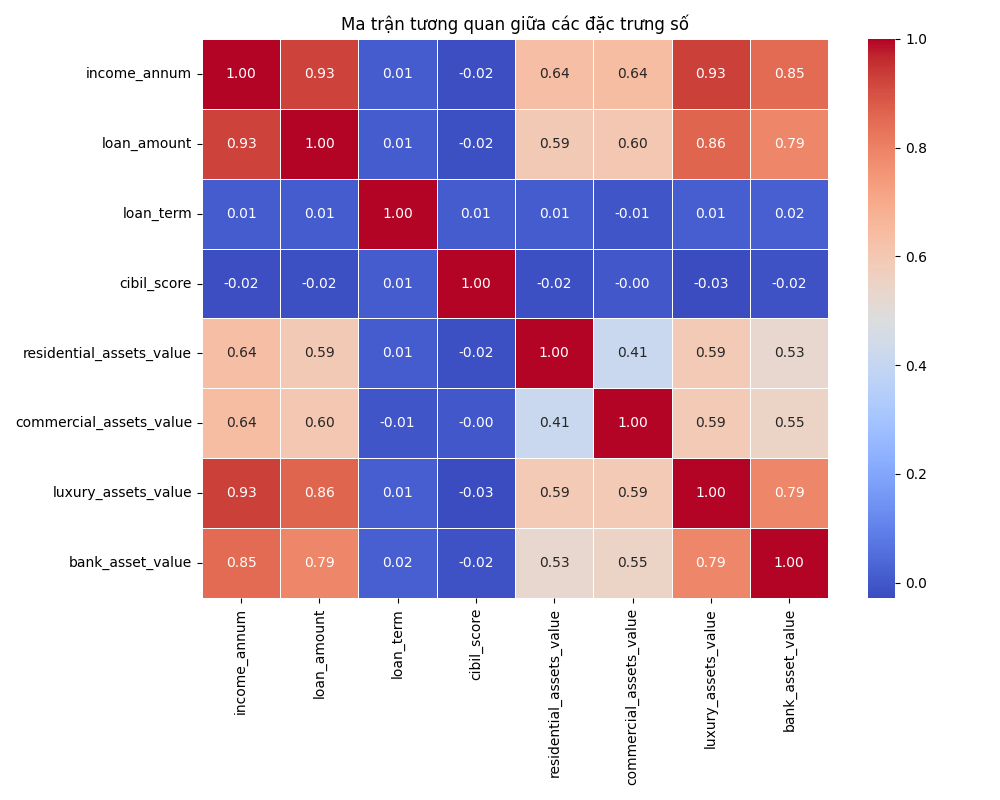
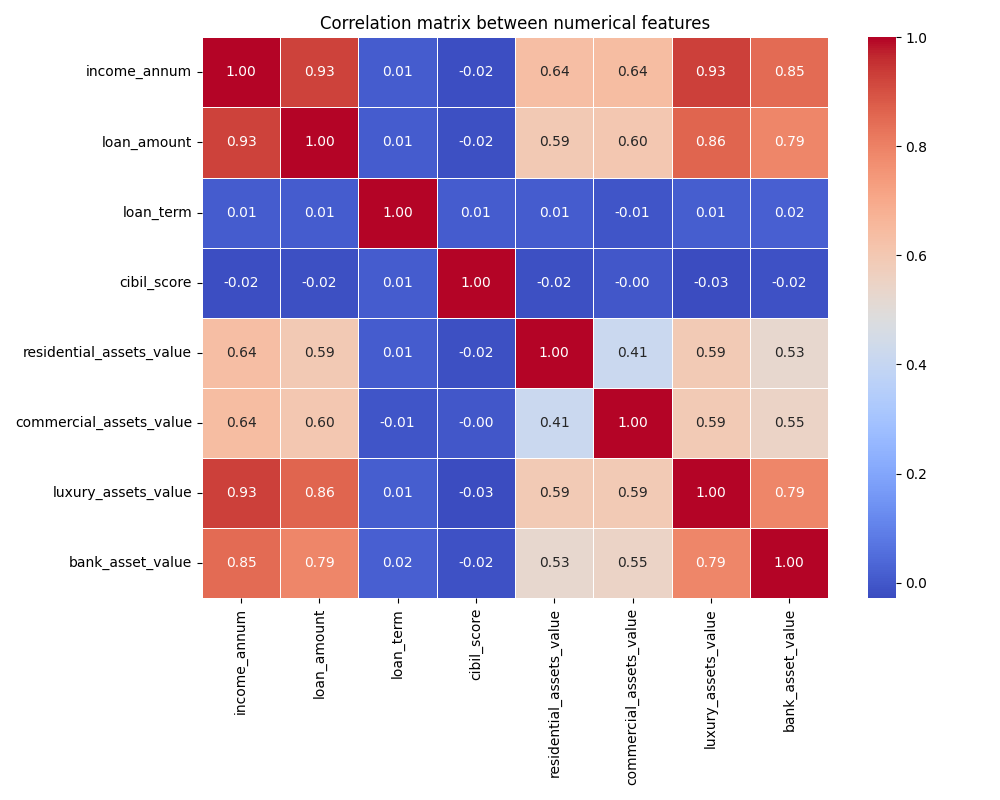
fix

diff --git a/model_utils.py b/model_utils.py
@@ -75,9 +75,9 @@ class ModelUtils:
         sns.heatmap(cm, annot=True, fmt="d", cmap='Blues',
                     xticklabels=self.class_names,
                     yticklabels=self.class_names)
-        plt.xlabel('Giá trị Dự đoán')
-        plt.ylabel('Giá trị Thực tế')
-        plt.title('Ma trận nhầm lẫn')
+        plt.xlabel('Predict value')
+        plt.ylabel('Actual value')
+        plt.title('Confusion matrix')
 
         self.plots['confusion_matrix'] = plt.gcf()
         plt.close()
@@ -98,9 +98,9 @@ class ModelUtils:
             plt.plot([0, 1], [0, 1], color='navy', lw=2, linestyle='--')
             plt.xlim([0.0, 1.0])
             plt.ylim([0.0, 1.05])
-            plt.xlabel('Tỉ lệ Dương tính Giả (FPR)')
-            plt.ylabel('Tỉ lệ Dương tính Thật (TPR)')
-            plt.title('Đường cong ROC')
+            plt.xlabel('False Positive Rate (FPR)')
+            plt.ylabel('True Positive Rate (TPR)')
+            plt.title('ROC curve')
             plt.legend(loc="lower right")
 
             self.plots['roc_curve'] = plt.gcf()
@@ -123,7 +123,7 @@ class ModelUtils:
             plt.ylim([0.0, 1.05])
             plt.xlabel('Recall')
             plt.ylabel('Precision')
-            plt.title('Đường cong Precision-Recall')
+            plt.title('Precision-Recall curve')
             plt.legend(loc="lower left")
 
             self.plots['precision_recall_curve'] = plt.gcf()
@@ -138,7 +138,7 @@ class ModelUtils:
         indices = np.argsort(importances)[::-1]
 
         plt.figure(figsize=(10, 8))
-        plt.title('Tầm quan trọng của các đặc trưng')
+        plt.title('The importance of features')
         plt.bar(range(len(importances)), importances[indices], align='center')
         plt.xticks(range(len(importances)), [feature_names[i] for i in indices], rotation=90)
         plt.tight_layout()
@@ -162,17 +162,17 @@ class ModelUtils:
         test_scores_std = np.std(test_scores, axis=1)
 
         plt.figure(figsize=(10, 6))
-        plt.title('Đường cong học tập')
-        plt.xlabel('Số lượng mẫu huấn luyện')
-        plt.ylabel('Điểm số')
+        plt.title('Learning curve')
+        plt.xlabel('Number of training samples')
+        plt.ylabel('Score')
         plt.grid()
 
         plt.fill_between(train_sizes, train_scores_mean - train_scores_std,
                          train_scores_mean + train_scores_std, alpha=0.1, color="r")
         plt.fill_between(train_sizes, test_scores_mean - test_scores_std,
                          test_scores_mean + test_scores_std, alpha=0.1, color="g")
-        plt.plot(train_sizes, train_scores_mean, 'o-', color="r", label="Điểm huấn luyện")
-        plt.plot(train_sizes, test_scores_mean, 'o-', color="g", label="Điểm kiểm định chéo")
+        plt.plot(train_sizes, train_scores_mean, 'o-', color="r", label="Training score ")
+        plt.plot(train_sizes, test_scores_mean, 'o-', color="g", label="cross validation score")
         plt.legend(loc="best")
 
         self.plots['learning_curve'] = plt.gcf()

diff --git a/data_utils.py b/data_utils.py
@@ -1,6 +1,4 @@
 import os
-import pandas as pd
-import numpy as np
 import matplotlib.pyplot as plt
 import seaborn as sns
 import re
@@ -63,7 +61,7 @@ class DataUtils:
         for i, feature in enumerate(self.numerical_features[:6]):  # Chỉ hiển thị tối đa 6 đặc trưng
             plt.subplot(2, 3, i + 1)
             sns.histplot(self.raw_data[feature], kde=True)
-            plt.title(f'Phân bố của {feature}')
+            plt.title(f'Distribution of {feature}')
             plt.tight_layout()
 
         self.plots['distributions'] = plt.gcf()
@@ -75,7 +73,7 @@ class DataUtils:
 
         plt.figure(figsize=(10, 8))
         sns.heatmap(corr_matrix, annot=True, cmap='coolwarm', fmt='.2f', linewidths=0.5)
-        plt.title('Ma trận tương quan giữa các đặc trưng số')
+        plt.title('Correlation matrix between numerical features')
         plt.tight_layout()
 
         self.plots['correlation'] = plt.gcf()
@@ -86,7 +84,7 @@ class DataUtils:
         # Biểu đồ đếm cho biến mục tiêu
         plt.figure(figsize=(8, 6))
         sns.countplot(x=self.target_column, data=self.raw_data)
-        plt.title(f'Phân bố biến mục tiêu - {self.target_column}')
+        plt.title(f'Target variable distribution - {self.target_column}')
         plt.tight_layout()
         self.plots['target_distribution'] = plt.gcf()
         plt.close()
@@ -169,6 +167,7 @@ class DataUtils:
         # 3. REPAYMENT_CAPACITY_INDEX
         df['repayment_capacity'] = (df['income_annum'] * 0.5 + df['total_assets'] * 0.3) / \
                                    (df['loan_amount'] / df['loan_term'] + 1e-6)
+        # cộng 1^-6 vào mẫu số để tránh chia cho 0 nếu mẫu số = 0 (vd 50/0 = error)
 
         # 4. LIQUID_ASSETS_RATIO
         df['liquid_ratio'] = (df['bank_asset_value'] + df['commercial_assets_value']) / \
@@ -218,7 +217,7 @@ class DataUtils:
         return X, y, selected_features
 
     def split_data(self, X, y, test_size=0.2, random_state=42):
-        """Chia dữ liệu thành tập huấn luyện và kiểm tra"""
+        """Chia dữ liệu thành tập huấn luyện và kiểm tra (0.2 = 20%)"""
         X_train, X_test, y_train, y_test = train_test_split(
             X, y, test_size=test_size, random_state=random_state, stratify=y
         )

diff --git a/config.py b/config.py
@@ -6,13 +6,13 @@ class Config:
     # Thư mục gốc chứa dự án
     ROOT_DIR = os.path.dirname(os.path.abspath(__file__))
 
-    # Đường dẫn đến file dữ liệu
+    # Path to dataset
     DATA_FILE_PATH = os.path.join(ROOT_DIR, "loan_approval_dataset.csv")
 
-    # Thư mục lưu trữ kết quả đầu ra (biểu đồ, báo cáo, v.v.)
+    # folder with output results
     OUTPUT_DIR = os.path.join(ROOT_DIR, "results")
 
-    # Cấu hình mô hình
+    # Config model
     MODEL_CONFIG = {
         "random_forest": {
             "n_estimators": 100,
@@ -25,13 +25,13 @@ class Config:
         # Có thể thêm cấu hình cho các mô hình khác ở đây
     }
 
-    # Cấu hình cho việc chia dữ liệu
+    # config for spliting data
     TRAIN_TEST_SPLIT = {
         "test_size": 0.2,
         "random_state": 42
     }
 
-    # Cấu hình cho việc biểu diễn đồ thị
+    # config for plot graph
     VISUALIZATION = {
         "figure_size_large": (12, 8),
         "figure_size_medium": (10, 6),
@@ -44,7 +44,7 @@ class Config:
     RANDOM_STATE = 42
     NUM_CV_FOLDS = 5
 
-    # Dành cho 5 đặc trưng mới
+    # Add 5 new features
     NEW_FEATURES_CONFIG = {
         "total_assets": {
             "description": "Tổng giá trị tài sản hiện có của người vay."
